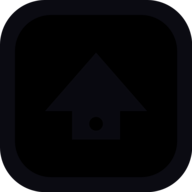
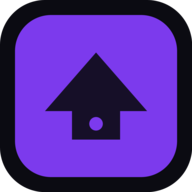
Updates

diff --git a/sw.js b/sw.js
@@ -1,1 +1,1 @@
-if(!self.define){let s,e={};const l=(l,i)=>(l=new URL(l+".js",i).href,e[l]||new Promise(e=>{if("document"in self){const s=document.createElement("script");s.src=l,s.onload=e,document.head.appendChild(s)}else s=l,importScripts(l),e()}).then(()=>{let s=e[l];if(!s)throw new Error(`Module ${l} didn’t register its module`);return s}));self.define=(i,n)=>{const r=s||("document"in self?document.currentScript.src:"")||location.href;if(e[r])return;let a={};const u=s=>l(s,r),o={module:{uri:r},exports:a,require:u};e[r]=Promise.all(i.map(s=>o[s]||u(s))).then(s=>(n(...s),a))}}define(["./workbox-9c191d2f"],function(s){"use strict";self.skipWaiting(),s.clientsClaim(),s.precacheAndRoute([{url:"registerSW.js",revision:"8aff795e20de78fa848677b126de3f39"},{url:"index.html",revision:"10dcada8961303532f2deaac2077713f"},{url:"icons.svg",revision:"3b4fcfcf393eca4d264dca4a4663bc37"},{url:"favicon.svg",revision:"7e840862161341271697daa99a40d76b"},{url:"icons/icon-maskable-512.png",revision:"f80feec5beca6087ec52f8709ed8c402"},{url:"icons/icon-512.png",revision:"5285cc1f79447bd9629c58adeedef5b4"},{url:"icons/icon-192.png",revision:"9b1da12cd11320746a2325d4aae2b5be"},{url:"icons/favicon.svg",revision:"0f601f30ab56dff2ac6f9ed6b3d4bace"},{url:"assets/washing-machine-CuKGNwKd.js",revision:null},{url:"assets/utils-DBwiM2sa.js",revision:null},{url:"assets/upload-lRNv8KQm.js",revision:null},{url:"assets/trash-2-BXTDv110.js",revision:null},{url:"assets/textarea-ecqkXqz-.js",revision:null},{url:"assets/tabs-DKGjtYGO.js",revision:null},{url:"assets/switch-DUWn8n-z.js",revision:null},{url:"assets/sora-latin-wght-normal-DdqRvwsR.woff2",revision:null},{url:"assets/sora-latin-ext-wght-normal-CawQDOvP.woff2",revision:null},{url:"assets/shield-check-8BSuEq9v.js",revision:null},{url:"assets/service-categories-cvJ44i1E.js",revision:null},{url:"assets/separator-CEeueqFJ.js",revision:null},{url:"assets/select-BIUaz6G1.js",revision:null},{url:"assets/react-dom-Dh8M6Tmj.js",revision:null},{url:"assets/plus-Bg-QEXOC.js",revision:null},{url:"assets/pencil-DfSGie4M.js",revision:null},{url:"assets/label-BofyM_Rq.js",revision:null},{url:"assets/inter-vietnamese-wght-normal-CBcvBZtf.woff2",revision:null},{url:"assets/inter-latin-wght-normal-Dx4kXJAl.woff2",revision:null},{url:"assets/inter-latin-ext-wght-normal-DO1Apj_S.woff2",revision:null},{url:"assets/inter-greek-wght-normal-CkhJZR-_.woff2",revision:null},{url:"assets/inter-greek-ext-wght-normal-DlzME5K_.woff2",revision:null},{url:"assets/inter-cyrillic-wght-normal-DqGufNeO.woff2",revision:null},{url:"assets/inter-cyrillic-ext-wght-normal-BOeWTOD4.woff2",revision:null},{url:"assets/input-B-4GZbh7.js",revision:null},{url:"assets/index-BgV4coFl.js",revision:null},{url:"assets/index-BV-6Idfm.css",revision:null},{url:"assets/images-DPWPCZ2f.js",revision:null},{url:"assets/flame-BawHX5i9.js",revision:null},{url:"assets/entities-BUxPkHQX.js",revision:null},{url:"assets/ellipsis-vertical-BRx2323o.js",revision:null},{url:"assets/droplets-BOVhsr-d.js",revision:null},{url:"assets/dist-NeFrk3v6.js",revision:null},{url:"assets/dist-DGG2HJ83.js",revision:null},{url:"assets/dist-BQu7zjj2.js",revision:null},{url:"assets/dist-B5sUYkvs.js",revision:null},{url:"assets/dialog-eDkI9i0R.js",revision:null},{url:"assets/createLucideIcon-aQRIVqfi.js",revision:null},{url:"assets/checkbox-fuudFH-s.js",revision:null},{url:"assets/camera-BgZJNzdu.js",revision:null},{url:"assets/VehiclesPage-Be7OnnUP.js",revision:null},{url:"assets/TasksPage-DX_rt1zf.js",revision:null},{url:"assets/StatsPage-DpZ1KqAp.js",revision:null},{url:"assets/ShoppingPage-DDUk4riO.js",revision:null},{url:"assets/SettingsPage-BomGS8aP.js",revision:null},{url:"assets/ServicesPage-xgTd0Von.js",revision:null},{url:"assets/RoomsPage-1WVBvvu1.js",revision:null},{url:"assets/PlantsPage-ChOAeE9F.js",revision:null},{url:"assets/PetsPage-Cbe-cURL.js",revision:null},{url:"assets/NotFoundPage-Dt9FHHg4.js",revision:null},{url:"assets/ModulesPage-DefEU-2U.js",revision:null},{url:"assets/ModulePlaceholderPage-9VSou3zR.js",revision:null},{url:"assets/MaintenancePage-w-vGeHVs.js",revision:null},{url:"assets/DocumentsPage-BtKyTcqJ.js",revision:null},{url:"assets/DesignShowcasePage-VLMvJ405.js",revision:null},{url:"assets/ContactsPage-COYoZRsF.js",revision:null},{url:"assets/CalendarPage-BPl8HitH.js",revision:null},{url:"icons/favicon.svg",revision:"0f601f30ab56dff2ac6f9ed6b3d4bace"},{url:"icons/icon-192.png",revision:"9b1da12cd11320746a2325d4aae2b5be"},{url:"icons/icon-512.png",revision:"5285cc1f79447bd9629c58adeedef5b4"},{url:"icons/icon-maskable-512.png",revision:"f80feec5beca6087ec52f8709ed8c402"},{url:"manifest.webmanifest",revision:"4922ae9d599b807af0ee9cd9ce511e7b"}],{}),s.cleanupOutdatedCaches(),s.registerRoute(new s.NavigationRoute(s.createHandlerBoundToURL("index.html")))});
+if(!self.define){let s,e={};const l=(l,i)=>(l=new URL(l+".js",i).href,e[l]||new Promise(e=>{if("document"in self){const s=document.createElement("script");s.src=l,s.onload=e,document.head.appendChild(s)}else s=l,importScripts(l),e()}).then(()=>{let s=e[l];if(!s)throw new Error(`Module ${l} didn’t register its module`);return s}));self.define=(i,n)=>{const r=s||("document"in self?document.currentScript.src:"")||location.href;if(e[r])return;let a={};const u=s=>l(s,r),o={module:{uri:r},exports:a,require:u};e[r]=Promise.all(i.map(s=>o[s]||u(s))).then(s=>(n(...s),a))}}define(["./workbox-9c191d2f"],function(s){"use strict";self.skipWaiting(),s.clientsClaim(),s.precacheAndRoute([{url:"registerSW.js",revision:"8aff795e20de78fa848677b126de3f39"},{url:"index.html",revision:"10dcada8961303532f2deaac2077713f"},{url:"icons.svg",revision:"3b4fcfcf393eca4d264dca4a4663bc37"},{url:"favicon.svg",revision:"7e840862161341271697daa99a40d76b"},{url:"icons/icon-maskable-512.png",revision:"3fac06d991ce46fb6af8040d09c11077"},{url:"icons/icon-512.png",revision:"0bc5ef48e25d0d75b1080b3a9d64dcc8"},{url:"icons/icon-192.png",revision:"d56429a64f77e7c8c9aad607c75c4daf"},{url:"icons/favicon.svg",revision:"fcc55acbe445c0a1f61e194f697ab291"},{url:"assets/washing-machine-CuKGNwKd.js",revision:null},{url:"assets/utils-DBwiM2sa.js",revision:null},{url:"assets/upload-lRNv8KQm.js",revision:null},{url:"assets/trash-2-BXTDv110.js",revision:null},{url:"assets/textarea-ecqkXqz-.js",revision:null},{url:"assets/tabs-DKGjtYGO.js",revision:null},{url:"assets/switch-DUWn8n-z.js",revision:null},{url:"assets/sora-latin-wght-normal-DdqRvwsR.woff2",revision:null},{url:"assets/sora-latin-ext-wght-normal-CawQDOvP.woff2",revision:null},{url:"assets/shield-check-8BSuEq9v.js",revision:null},{url:"assets/service-categories-cvJ44i1E.js",revision:null},{url:"assets/separator-CEeueqFJ.js",revision:null},{url:"assets/select-BIUaz6G1.js",revision:null},{url:"assets/react-dom-Dh8M6Tmj.js",revision:null},{url:"assets/plus-Bg-QEXOC.js",revision:null},{url:"assets/pencil-DfSGie4M.js",revision:null},{url:"assets/label-BofyM_Rq.js",revision:null},{url:"assets/inter-vietnamese-wght-normal-CBcvBZtf.woff2",revision:null},{url:"assets/inter-latin-wght-normal-Dx4kXJAl.woff2",revision:null},{url:"assets/inter-latin-ext-wght-normal-DO1Apj_S.woff2",revision:null},{url:"assets/inter-greek-wght-normal-CkhJZR-_.woff2",revision:null},{url:"assets/inter-greek-ext-wght-normal-DlzME5K_.woff2",revision:null},{url:"assets/inter-cyrillic-wght-normal-DqGufNeO.woff2",revision:null},{url:"assets/inter-cyrillic-ext-wght-normal-BOeWTOD4.woff2",revision:null},{url:"assets/input-B-4GZbh7.js",revision:null},{url:"assets/index-BgV4coFl.js",revision:null},{url:"assets/index-BV-6Idfm.css",revision:null},{url:"assets/images-DPWPCZ2f.js",revision:null},{url:"assets/flame-BawHX5i9.js",revision:null},{url:"assets/entities-BUxPkHQX.js",revision:null},{url:"assets/ellipsis-vertical-BRx2323o.js",revision:null},{url:"assets/droplets-BOVhsr-d.js",revision:null},{url:"assets/dist-NeFrk3v6.js",revision:null},{url:"assets/dist-DGG2HJ83.js",revision:null},{url:"assets/dist-BQu7zjj2.js",revision:null},{url:"assets/dist-B5sUYkvs.js",revision:null},{url:"assets/dialog-eDkI9i0R.js",revision:null},{url:"assets/createLucideIcon-aQRIVqfi.js",revision:null},{url:"assets/checkbox-fuudFH-s.js",revision:null},{url:"assets/camera-BgZJNzdu.js",revision:null},{url:"assets/VehiclesPage-Be7OnnUP.js",revision:null},{url:"assets/TasksPage-DX_rt1zf.js",revision:null},{url:"assets/StatsPage-DpZ1KqAp.js",revision:null},{url:"assets/ShoppingPage-DDUk4riO.js",revision:null},{url:"assets/SettingsPage-BomGS8aP.js",revision:null},{url:"assets/ServicesPage-xgTd0Von.js",revision:null},{url:"assets/RoomsPage-1WVBvvu1.js",revision:null},{url:"assets/PlantsPage-ChOAeE9F.js",revision:null},{url:"assets/PetsPage-Cbe-cURL.js",revision:null},{url:"assets/NotFoundPage-Dt9FHHg4.js",revision:null},{url:"assets/ModulesPage-DefEU-2U.js",revision:null},{url:"assets/ModulePlaceholderPage-9VSou3zR.js",revision:null},{url:"assets/MaintenancePage-w-vGeHVs.js",revision:null},{url:"assets/DocumentsPage-BtKyTcqJ.js",revision:null},{url:"assets/DesignShowcasePage-VLMvJ405.js",revision:null},{url:"assets/ContactsPage-COYoZRsF.js",revision:null},{url:"assets/CalendarPage-BPl8HitH.js",revision:null},{url:"icons/favicon.svg",revision:"fcc55acbe445c0a1f61e194f697ab291"},{url:"icons/icon-192.png",revision:"d56429a64f77e7c8c9aad607c75c4daf"},{url:"icons/icon-512.png",revision:"0bc5ef48e25d0d75b1080b3a9d64dcc8"},{url:"icons/icon-maskable-512.png",revision:"3fac06d991ce46fb6af8040d09c11077"},{url:"manifest.webmanifest",revision:"4922ae9d599b807af0ee9cd9ce511e7b"}],{}),s.cleanupOutdatedCaches(),s.registerRoute(new s.NavigationRoute(s.createHandlerBoundToURL("index.html")))});
